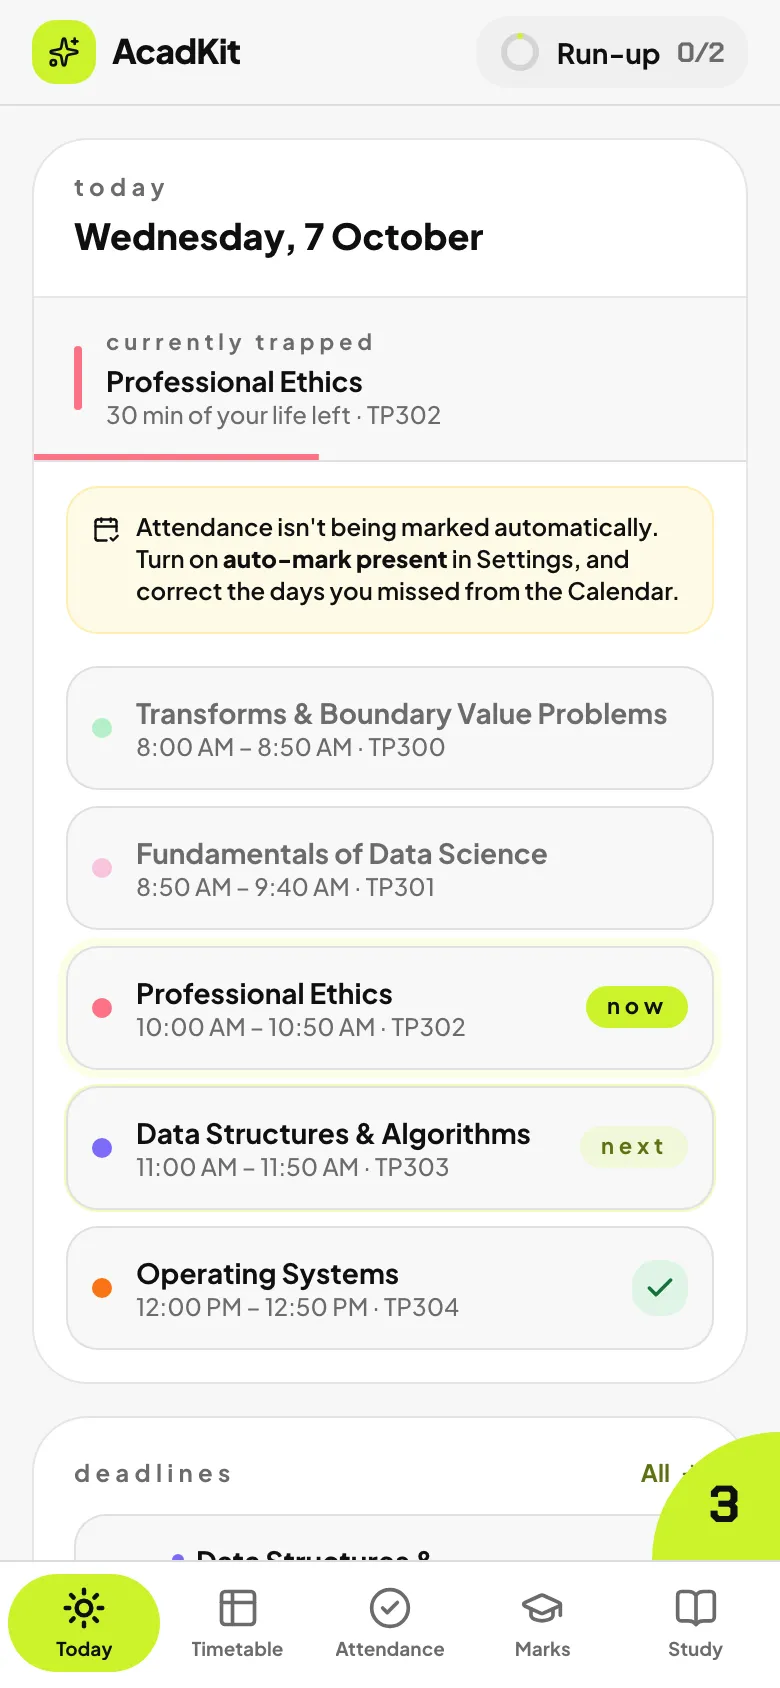
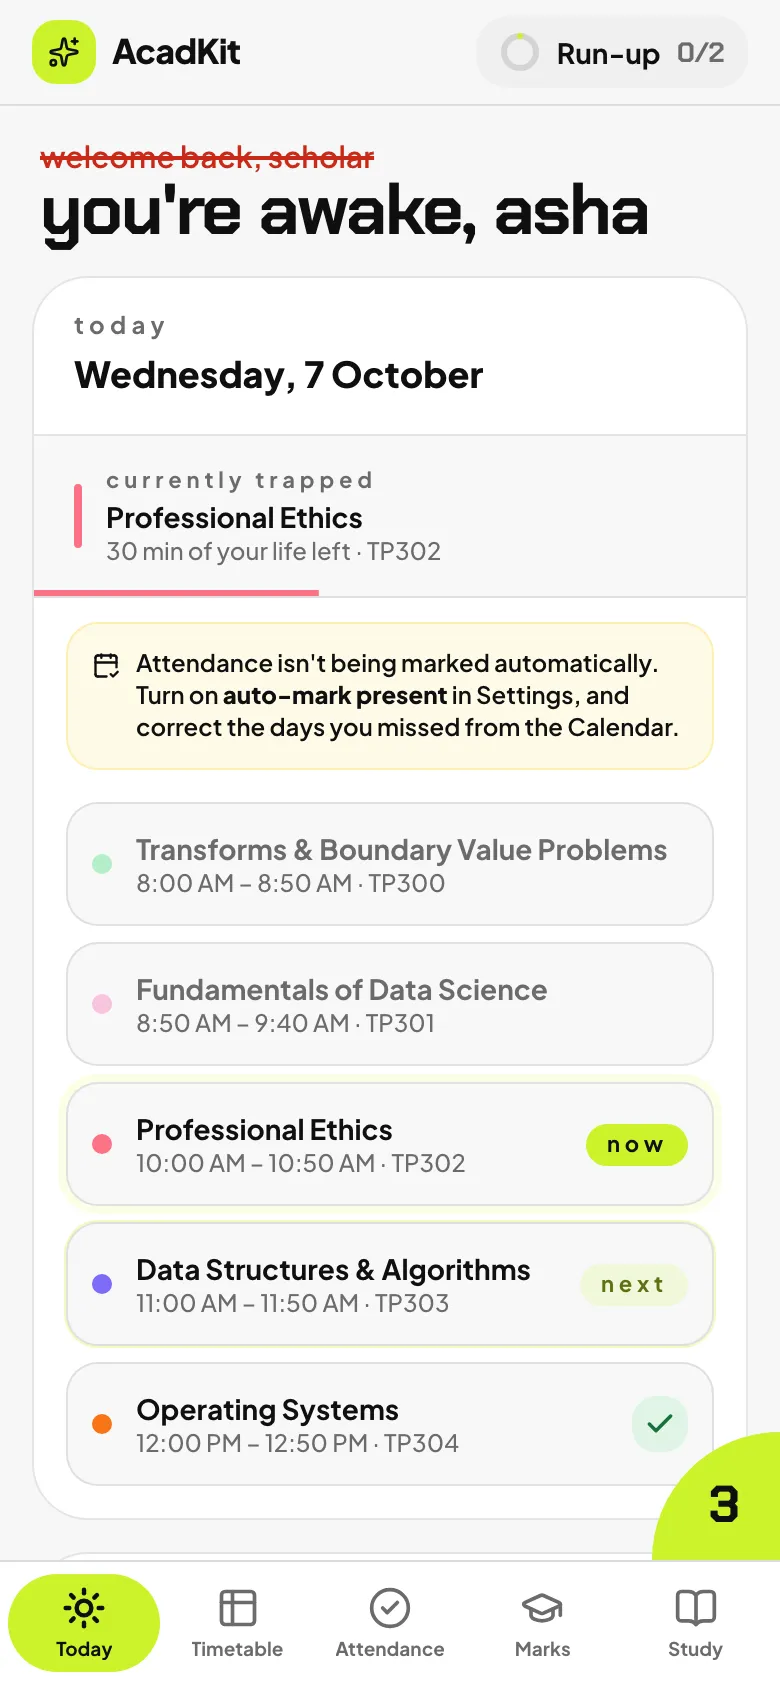
Today: a greeting by the hour
Today's title greets by the hour ("you're awake, kunal", "still up?"), under a struck-out "welcome back, scholar" in the brutalist voice.

diff --git a/src/pages/Today.tsx b/src/pages/Today.tsx
@@ -1,4 +1,5 @@
 import { GettingStartedCard } from "@/components/getting-started";
+import { Greeting } from "@/components/home/greeting";
 import { TodayCard } from "@/components/home/today-card";
 import { DeadlinesCard } from "@/components/home/deadlines-card";
 import { SuggestionsCard } from "@/components/viz/suggestions-card";
@@ -7,14 +8,14 @@ import { AutopilotLine } from "@/components/autopilot-line";
 import { ContinueBanner } from "@/components/continue-banner";
 
 /**
- * The first tab: the day's classes, then what's due. Above them only what
- * needs you (a suggestion to accept, a page to continue, an undo), each
- * saying nothing when there's nothing.
+ * The first tab: a greeting, the day's classes, then what's due. Above
+ * the day only what needs you (a suggestion to accept, a page to
+ * continue, an undo), each saying nothing when there's nothing.
  */
 export default function Today() {
   return (
     <div className="mx-auto max-w-2xl space-y-4">
-      <h1 className="sr-only">Today</h1>
+      <Greeting />
       <SuggestionsCard />
       <ContinueBanner />
       <SiriLine />

diff --git a/src/components/home/greeting.tsx b/src/components/home/greeting.tsx
@@ -1,0 +1,26 @@
+import { useSettings } from "@/hooks/useData";
+import { useTone } from "@/hooks/useTone";
+import { say, VOICE } from "@/lib/voice";
+import { useAppStore } from "@/store/app";
+
+/**
+ * Today's title: a greeting by the hour. The brutalist voice prints the
+ * line it's correcting above it, struck out.
+ */
+export function Greeting() {
+  const tone = useTone();
+  const { data: settings } = useSettings();
+  const local = useAppStore((s) => s.name);
+  const name = (settings?.name || local || "").trim().split(/\s+/)[0];
+
+  return (
+    <div className="px-1">
+      {tone === "brutal" && (
+        <p aria-hidden className="text-[15px] font-semibold leading-tight text-bad-deep line-through decoration-[1.5px]">
+          welcome back, scholar
+        </p>
+      )}
+      <h1 className="text-2xl font-extrabold tracking-tight lg:text-3xl">{say(VOICE.greeting, tone, new Date().getHours(), name)}</h1>
+    </div>
+  );
+}

diff --git a/src/lib/voice.ts b/src/lib/voice.ts
@@ -20,6 +20,21 @@ const pick = <A extends unknown[]>(c: Copy<A>) => c;
 
 export const VOICE = {
 
+  /** Today's title, by the hour, with your first name when the app has one. */
+  greeting: pick<[hour: number, name: string]>({
+    plain: (hour, name) => {
+      const part = hour < 5 ? "Up late" : hour < 12 ? "Good morning" : hour < 17 ? "Good afternoon" : "Good evening";
+      return name ? `${part}, ${name}` : part;
+    },
+    brutal: (hour, name) => {
+      const who = name ? `, ${name}` : "";
+      if (hour < 6) return `still up${who}?`;
+      if (hour < 12) return `you're awake${who}`;
+      if (hour < 17) return `sup${who}`;
+      return `long day${who}?`;
+    },
+  }),
+
   /** The live class card's heading, while a class is running. */
   inClassNow: pick({
     plain: () => "In class now",

diff --git a/src/lib/voice.test.ts b/src/lib/voice.test.ts
@@ -22,6 +22,11 @@ describe("the app's voice", () => {
     for (const [key, line] of lines("quiet")) expect(line, key).not.toMatch(/!/);
   });
 
+  it("greets by the hour, with the name when there is one", () => {
+    expect([3, 9, 14, 20].map((h) => say(VOICE.greeting, "brutal", h, "Kunal"))).toEqual(["still up, Kunal?", "you're awake, Kunal", "sup, Kunal", "long day, Kunal?"]);
+    expect(say(VOICE.greeting, "quiet", 9, "")).toBe("Good morning");
+  });
+
   it("falls back to the plain line where a register has none of its own", () => {
     expect(say(VOICE.titleMarks, "quiet")).toBe(say(VOICE.titleMarks, "plain"));
     expect(say(VOICE.upNext, "quiet")).toBe("Next");

diff --git a/ARCHITECTURE.md b/ARCHITECTURE.md
@@ -125,7 +125,9 @@ The app is five tabs: Today, Timetable, Attendance, Marks and Study (`src/lib/sc
   zero and no list staggers in on arrival (each starts with `initial={false}`). What moves is
   what changed: a number that updates, a tab's pill, a row you open, a sheet, the corner, the
   explainers.
-- Today (`src/pages/Today.tsx`, at `/`) is the day and what's due. Its card (`TodayCard`) shows
+- Today (`src/pages/Today.tsx`, at `/`) is the day and what's due. Its title is a greeting by the
+  hour (`Greeting`, "you're awake, kunal"), under a struck-out "welcome back, scholar" in the
+  brutalist voice. Its card (`TodayCard`) shows
   today's classes, the one on now and the next, or the next day with classes once today's are
   over. Under it, the next three deadlines each open the Deadlines page (`/deadlines`, under the
   next exam's countdown). Above the day is only what needs you: a suggestion, a page to continue,

diff --git a/README.md b/README.md
@@ -20,8 +20,8 @@ transcribes lectures and links them all together.
   <img src="docs/screens/study.webp" width="150" alt="Study: the study folder and search" />
 </p>
 
-- **Today**: the day's classes, the one on now and the one next, then what's due. Above them
-  only what needs me: a suggestion, a page to continue, an undo.
+- **Today**: a greeting by the hour, the day's classes, the one on now and the one next, then
+  what's due. Above them only what needs me: a suggestion, a page to continue, an undo.
 - **Timetable**: the classes of each Day Order, on SRM's 5-day rotation.
 - **Attendance**: how many classes each subject can spare, what it takes to get back above the
   bar, a forecast, and a heatmap of the semester.

diff --git a/CHANGELOG.md b/CHANGELOG.md
@@ -16,6 +16,8 @@ existing data or installs, a minor version for new features, a patch version for
   31 expected in the end-sem, that's 15.5 of the 25 in the tests - 62% of them"), and its
   explainer shows the step.
 - Timetable's Add class sits beside the heading.
+- Today opens with a greeting by the hour, "you're awake" to "still up?", under a struck-out
+  "welcome back, scholar".
 
 ### Fixed
 
